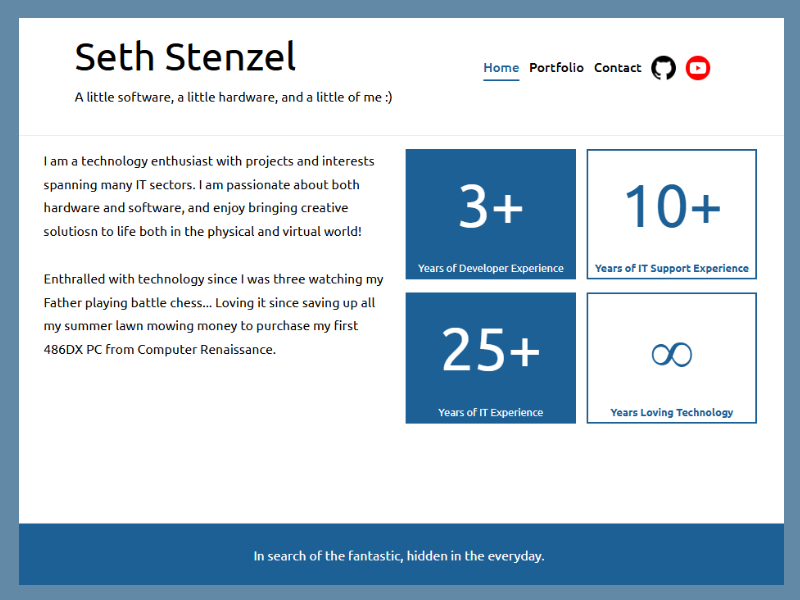
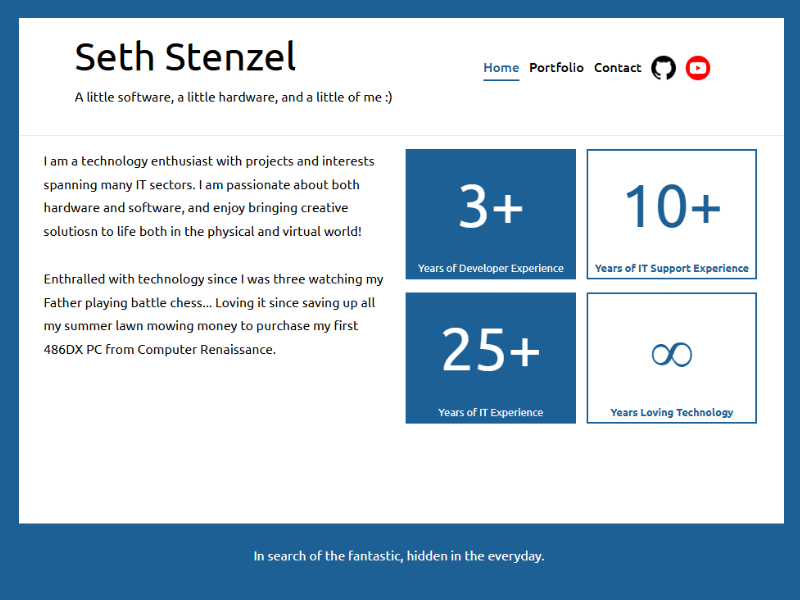
updated portfolio page, and readme

Changed region(s): [[0.0, 0.0, 1.0, 1.0]]

diff --git a/README.md b/README.md
@@ -1,6 +1,43 @@
 # sethstenzel.me
 
-Personal website built with [NiceGUI](https://nicegui.io/) - a Python-based web framework.
+A full-stack portfolio website demonstrating modern Python web development practices, production deployment workflows, and DevOps capabilities.
+
+## Technical Overview
+
+This project showcases:
+
+- **Python Web Framework**: Built with [NiceGUI](https://nicegui.io/), a modern Python web framework leveraging FastAPI and Vue.js for reactive UI components
+- **Component-Based Architecture**: Modular page structure with reusable template components
+- **Production Deployment**: systemd service management, nginx reverse proxy with WebSocket support, SSL/TLS encryption
+- **CI/CD Pipeline**: GitHub webhook integration for automated deployments with release branch strategy
+- **Cross-Platform Development**: Development environment configured for both Linux/Ubuntu and Windows
+
+## Tech Stack
+
+**Backend:**
+
+- Python 3.13+
+- NiceGUI (FastAPI + Vue.js)
+- uvicorn ASGI server
+
+**Frontend:**
+
+- Vue.js (via NiceGUI)
+- Tailwind CSS (via NiceGUI)
+- Responsive design with custom components
+
+**Infrastructure:**
+
+- nginx reverse proxy with WebSocket support
+- systemd service management
+- Let's Encrypt SSL/TLS certificates
+- Ubuntu VPS hosting
+
+**Development Tools:**
+
+- [uv](https://github.com/astral-sh/uv) - Modern Python package manager
+- Git for version control
+- FastAPI webhook listener for automated deployments
 
 ## Development Setup
 
@@ -11,25 +48,21 @@ Personal website built with [NiceGUI](https://nicegui.io/) - a Python-based web 
 
 ### Installation
 
-**On Linux/Ubuntu:**
+**Linux/Ubuntu:**
+
 ```bash
-# Clone the repository
 git clone https://github.com/sethstenzel/mti-sites-sethstenzel.me.git
 cd mti-sites-sethstenzel.me
-
-# Create virtual environment and install dependencies
 uv venv
 source .venv/bin/activate
 uv pip install -e .
 ```
 
-**On Windows:**
+**Windows:**
+
 ```powershell
-# Clone the repository
 git clone https://github.com/sethstenzel/mti-sites-sethstenzel.me.git
 cd mti-sites-sethstenzel.me
-
-# Create virtual environment and install dependencies
 uv venv
 .\.venv\Scripts\activate
 uv pip install -e .
@@ -37,13 +70,12 @@ uv pip install -e .
 
 ### Running Locally
 
-```
+```bash
 # Development mode (auto-reload, opens browser)
 cd ./src/mti_sites_sethstenzel.me
-python -m mti_sites_sethstenzel_me.site --dev (or without argument)
+python -m mti_sites_sethstenzel_me.site --dev
 
 # Production mode (runs on localhost:18001)
-cd ./src/mti_sites_sethstenzel.me
 python -m mti_sites_sethstenzel_me.site --prod
 ```
 
@@ -75,77 +107,48 @@ src/mti_sites_sethstenzel_me/
     └── pages/           # Page content (JSON)
 ```
 
+## Key Features
+
+### Component-Based Architecture
+
+The application uses a modular component structure with reusable templates:
+
+- **Template System**: Shared UI components ([header.py](src/mti_sites_sethstenzel_me/pages/templates/header.py), [nav_bar.py](src/mti_sites_sethstenzel_me/pages/templates/nav_bar.py), [footer.py](src/mti_sites_sethstenzel_me/pages/templates/footer.py)) promote code reuse
+- **Route Management**: Centralized routing in [routes.py](src/mti_sites_sethstenzel_me/routes.py) for clean URL structure
+- **Page Components**: Individual page modules ([index.py](src/mti_sites_sethstenzel_me/pages/index.py), [portfolio.py](src/mti_sites_sethstenzel_me/pages/portfolio.py), [articles.py](src/mti_sites_sethstenzel_me/pages/articles.py), [contact.py](src/mti_sites_sethstenzel_me/pages/contact.py)) for separation of concerns
+
+### Production Deployment
+
+Demonstrates professional deployment practices:
+
+- **Process Management**: systemd service configuration for automatic startup and crash recovery
+- **Reverse Proxy**: nginx configuration with WebSocket support for real-time updates
+- **SSL/TLS**: Automated certificate management with Let's Encrypt
+- **Environment Configuration**: Environment-based port configuration for flexible deployment
+
+### CI/CD Pipeline
+
+Implemented GitHub webhook-based continuous deployment:
+
+- **Release Branch Strategy**: Separate development and production branches
+- **Automated Deployments**: Push-to-deploy workflow using FastAPI webhook listener
+- **Zero-Downtime Updates**: Service restart automation via systemd
+- **Security**: HMAC-SHA256 signature verification for webhook authentication
+
+### Configuration Management
+
+The application supports environment-based configuration:
+
+```bash
+# Port configuration via environment variable
+export SETHSTENZEL_ME_PORT=18001
+```
+
+Default port: 18001
+
 ## Deployment
 
-See [DEPLOYMENT.md](DEPLOYMENT.md) for detailed instructions on deploying to an Ubuntu VPS with nginx, certbot, and HTTPS.
-
-### Quick Deploy (Ubuntu VPS)
-
-```bash
-# On your VPS
-./deploy.sh install    # First time setup
-./deploy.sh update     # Update code and restart
-./deploy.sh restart    # Quick restart
-./deploy.sh logs       # View live logs
-./deploy.sh status     # Check status
-```
-
-### Auto-Deployment with GitHub Webhooks
-
-Set up automatic deployments triggered by GitHub push events. This setup uses a **release branch strategy** for production safety:
-
-- **`main` branch** - Active development (does NOT auto-deploy)
-- **`release` branch** - Production deployment (auto-deploys on push)
-
-When you merge `main` to `release` and push, your server automatically pulls changes and restarts the service.
-
-See [WEBHOOK_SETUP.md](WEBHOOK_SETUP.md) for complete setup instructions and release branch workflow.
-
-**Quick Setup:**
-1. Install FastAPI & uvicorn: `uv pip install -e .`
-2. Generate webhook secret: `python3 -c "import secrets; print(secrets.token_hex(32))"`
-3. Configure and start webhook listener service
-4. Update nginx configuration with webhook endpoint
-5. Add webhook in GitHub repository settings
-6. Create `release` branch: `git checkout -b release && git push origin release`
-
-**Deployment Workflow:**
-```bash
-# Develop on main (does NOT deploy)
-git checkout main
-git add .
-git commit -m "Add feature"
-git push origin main
-
-# Deploy to production (merge to release)
-git checkout release
-git merge main
-git push origin release  # Auto-deploys!
-```
-
-**Files:**
-- `webhook_listener.py` - FastAPI webhook listener (with auto-generated API docs)
-- `webhook-listener.service` - systemd service file (runs with uvicorn)
-- `webhook-nginx.conf` - nginx configuration snippet
-- `WEBHOOK_SETUP.md` - Complete setup guide with workflow details
-
-## Configuration
-
-The application reads the `SETHSTENZEL_ME_PORT` environment variable for production deployment:
-
-**Linux/Ubuntu:**
-```bash
-export SETHSTENZEL_ME_PORT=18001
-python -m mti_sites_sethstenzel_me.site
-```
-
-**Windows:**
-```powershell
-$env:SETHSTENZEL_ME_PORT="18001"
-python -m mti_sites_sethstenzel_me.site
-```
-
-Default port is 18001 if not specified.
+For detailed deployment instructions including server setup, nginx configuration, SSL certificates, and webhook automation, see [setup/deployment.md](setup/deployment.md).
 
 ## License
 
